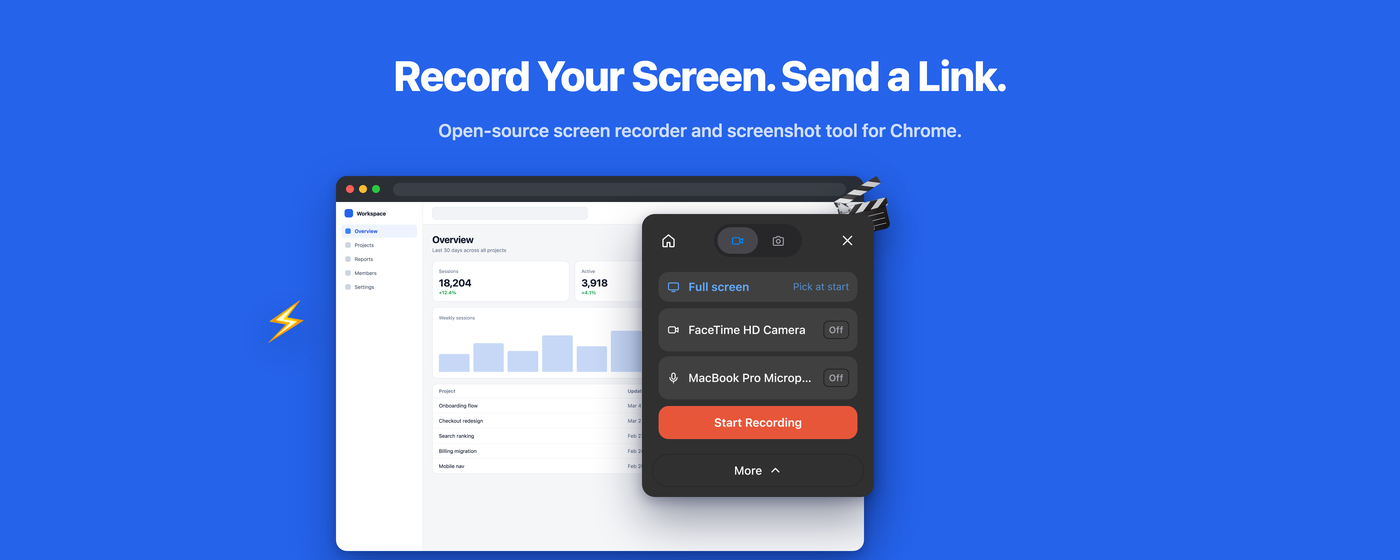
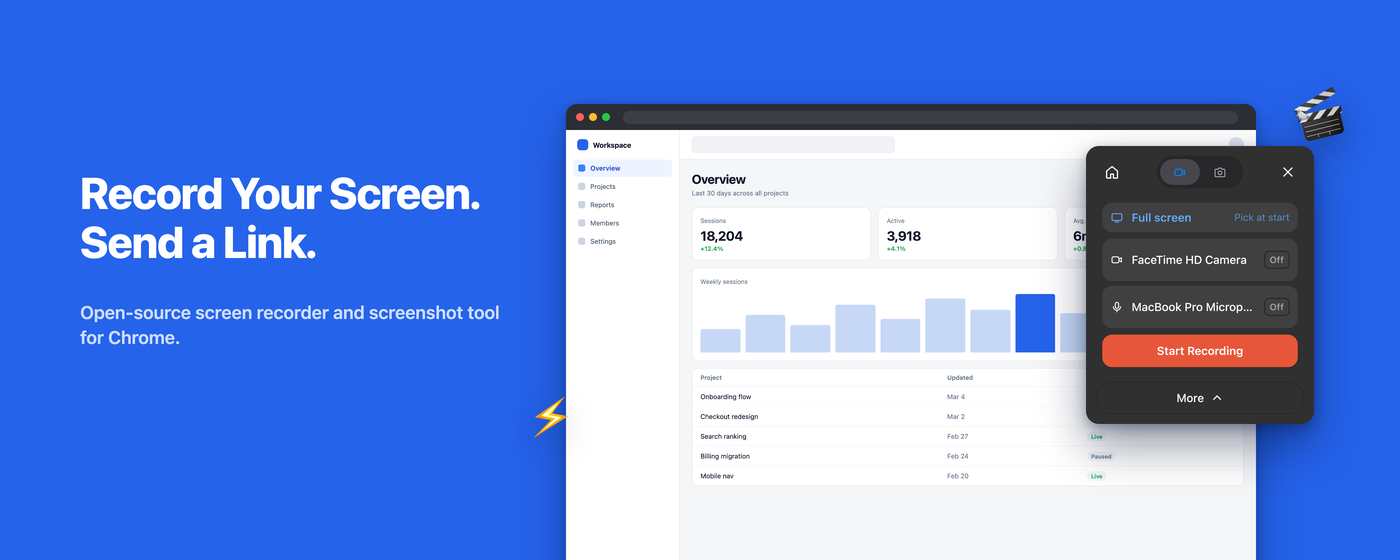
chore(extension): give the marquee a left/right split
Centring the headline over the cluster crowded a canvas that is 1400 wide and
only 560 tall: the panel ended up covering the window it is meant to sit on,
and both props were squeezed into whatever gap was left. Copy takes the left
column now and the cluster the right, so the window's content reads and the
panel overlaps its edge rather than its middle.

diff --git a/scripts/gen-store-assets.py b/scripts/gen-store-assets.py
@@ -138,13 +138,17 @@ def build(s: dict, w: int, h: int) -> str:
         "<!doctype html><meta charset='utf-8'>",
         f"<style>{css}\nhtml,body{{width:{w}px;height:{h}px}}</style>",
     ]
+    col = (
+        f"left:{s['col'][0]}px;width:{s['col'][1]}px;text-align:left;"
+        if s.get("col") else ""
+    )
     p.append(
-        f"<h1 style='top:{s['title_at']}px;font-size:{s.get('title_size', 44)}px'>"
-        f"{s['title']}</h1>"
+        f"<h1 style='{col}top:{s['title_at']}px;"
+        f"font-size:{s.get('title_size', 44)}px'>{s['title']}</h1>"
     )
     if s.get("sub"):
         p.append(
-            f"<div class='sub' style='top:{s['sub_at']}px;"
+            f"<div class='sub' style='{col}top:{s['sub_at']}px;"
             f"font-size:{s.get('sub_size', 20)}px'>{s['sub']}</div>"
         )
     p.extend(s.get("layers", []))
@@ -213,14 +217,15 @@ def small_tile() -> dict:
 
 def marquee() -> dict:
     return {
-        "title": "Record Your Screen. Send a Link.",
-        "title_size": 42,
-        "title_at": 52,
+        "title": "Record Your Screen.<br>Send a Link.",
+        "title_size": 44,
+        "title_at": 168,
+        "col": (80, 440),
         "sub": "Open-source screen recorder and screenshot tool for Chrome.",
         "sub_size": 18,
-        "sub_at": 118,
-        "layers": [window(336, 176, 528), card(PV, 642, 214, 232)],
-        "emoji": [("🎬", 836, 182, 54, -14, 4), ("⚡", 262, 300, 48, 10)],
+        "sub_at": 300,
+        "layers": [window(566, 104, 690), card(PV, 1086, 146, 228)],
+        "emoji": [("🎬", 1296, 92, 48, -14, 4), ("⚡", 528, 396, 46, 10, 4)],
     }
 
 
